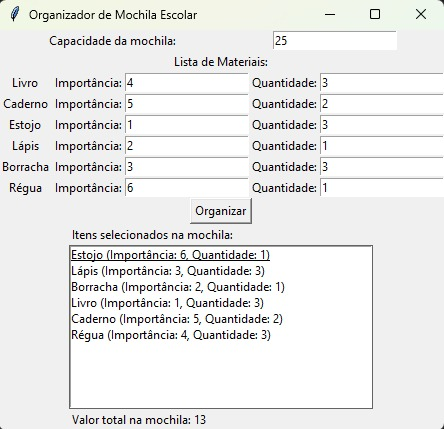
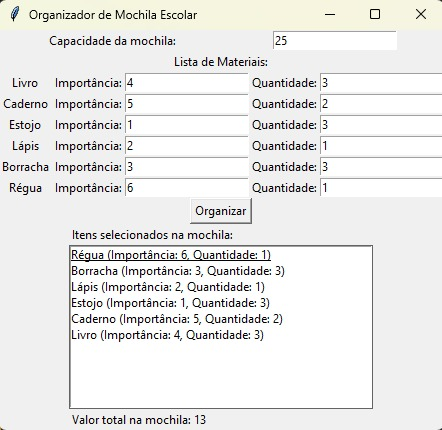
Arrumando erro de importancia

diff --git a/main.py b/main.py
@@ -57,47 +57,39 @@ def organizar_mochila():
     mochila_itens.delete(0, tk.END)
 
     # Atualizar a lista de itens na mochila
-    pesos = []
-    valores = []
-    quantidade_selecionada = []
+    quantidades = []
     for i, material in enumerate(materiais):
-        importancia = importancias_entries[i].get()
         quantidade = quantidades_entries[i].get()
-        if importancia and quantidade:
-            importancia = int(importancia)
+        if quantidade:
             quantidade = int(quantidade)
-            if importancia <= capacidade_mochila:  # Verificar se a importância é menor ou igual à capacidade da mochila
-                pesos.append(importancia)
-                valores.append(quantidade)
-                quantidade_selecionada.append(quantidade)
+            quantidades.append(quantidade)
 
-    # Ordenar os materiais em ordem decrescente de importância
-    materiais_ordenados = [material for _, material in sorted(zip(pesos, materiais), key=lambda x: x[0], reverse=True)]
+    # Ordenar os materiais em ordem decrescente de quantidade
+    materiais_ordenados = [material for _, material in sorted(zip(quantidades, materiais), key=lambda x: x[0], reverse=True)]
 
     # Chamada da função do algoritmo da Mochila
-    valor_total, itens_selecionados_indices = mochila(capacidade_mochila, pesos, valores, len(pesos))
+    valor_total, itens_selecionados_indices = mochila(capacidade_mochila, quantidades, len(quantidades))
 
-    # Exibição dos itens selecionados na mochila em ordem decrescente de importância
+    # Exibição dos itens selecionados na mochila em ordem decrescente de quantidade
     for indice in itens_selecionados_indices:
         item_selecionado = materiais[indice]
-        importancia = importancias_entries[materiais.index(item_selecionado)].get()
         quantidade = quantidades_entries[materiais.index(item_selecionado)].get()
-        mochila_itens.insert(tk.END, f"{item_selecionado['nome']} (Importância: {importancia}, Quantidade: {quantidade})")
+        mochila_itens.insert(tk.END, f"{item_selecionado['nome']} (Quantidade: {quantidade})")
 
     # Exibição do valor total na mochila
     valor_total_label.config(text=f"Valor total na mochila: {valor_total}")
 
 
 # Função para organizar a mochila usando o algoritmo da Mochila
-def mochila(capacidade, pesos, valores, n):
+def mochila(capacidade, quantidades, n):
     tabela = [[0 for _ in range(capacidade + 1)] for _ in range(n + 1)]
 
     for i in range(n + 1):
         for j in range(capacidade + 1):
             if i == 0 or j == 0:
                 tabela[i][j] = 0
-            elif pesos[i - 1] <= j:
-                tabela[i][j] = max(valores[i - 1] + tabela[i - 1][j - pesos[i - 1]], tabela[i - 1][j])
+            elif quantidades[i - 1] <= j:
+                tabela[i][j] = max(quantidades[i - 1] + tabela[i - 1][j - quantidades[i - 1]], tabela[i - 1][j])
             else:
                 tabela[i][j] = tabela[i - 1][j]
 
@@ -107,7 +99,7 @@ def mochila(capacidade, pesos, valores, n):
     while i > 0 and j > 0:
         if tabela[i][j] != tabela[i - 1][j]:
             itens_selecionados.append(i - 1)
-            j -= pesos[i - 1]
+            j -= quantidades[i - 1]
         i -= 1
 
     return tabela[n][capacidade], itens_selecionados
@@ -133,4 +125,3 @@ valor_total_label = tk.Label(resultados_frame, text="Valor total na mochila:")
 valor_total_label.grid(row=2, column=0, sticky="w")
 
 root.mainloop()
-
